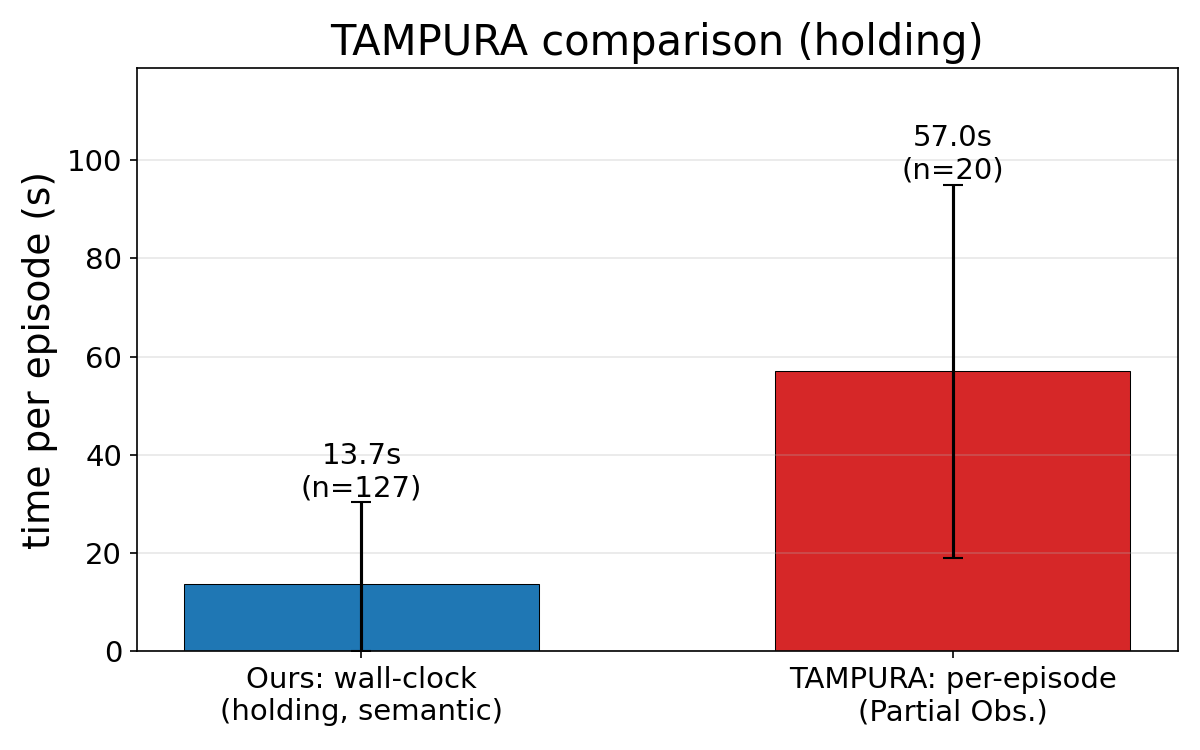
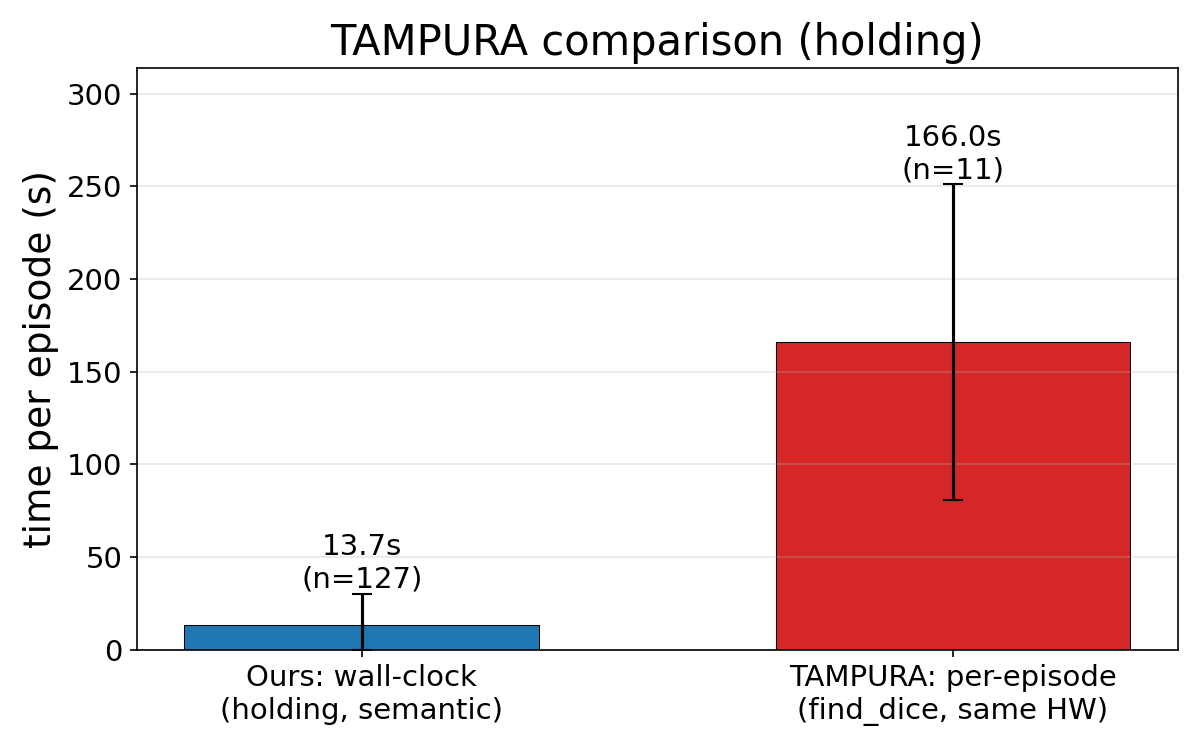
eval_plotter: TAMPURA fig -> local same-HW per-episode (ours 13.7 vs find_dice 166 s, success-only); regen thesis figure (#213)

diff --git a/eval_plotter.py b/eval_plotter.py
@@ -1083,38 +1083,39 @@ def plot_tampura_wallclock_comparison(
     title: str,
     out_path: Path,
 ) -> Optional[Path]:
-    """Bar chart: our holding-task per-episode wall-clock vs TAMPURA's
-    Partial Observability per-episode time (57 ± 38 from
-    arXiv:2403.10454 Table II).
+    """Bar chart: our holding-task per-episode wall-clock vs real TAMPURA
+    find_dice re-run on the SAME hardware (Ryzen 7 PRO 7730U).
 
-    Audit #177 (was #73 TIER C plot 9).  holding is the closest
-    analogue to TAMPURA's hidden-object Find Die task (find a hidden
-    object, pick it up); find-and-tray-stack is strictly harder and was
-    the wrong comparison.  TAMPURA's Table II time INCLUDES executing the
-    selected controllers in simulation, so it is a per-episode figure,
-    not planner time alone; the comparable quantity is therefore our
-    per-episode wall-clock (full episode incl. PyBullet + replanning).
-    The planning sub-component is intentionally NOT plotted.  Two bars,
-    semantic variant only: our wall-clock vs TAMPURA, both mean ± std;
-    the lower whisker is clipped at 0 because our times are right-skewed
-    (mean > median; median reported in the caption).  Reliability runs
-    the other way (ours ~42 %, TAMPURA >= 63 %); see THESIS_NOTES §21 for
-    the architectural framing.
+    Audit #213 (per-step correction to #177/#190).  TAMPURA's published
+    Table II number (57 ± 38 s) is a PER-STEP time including simulated
+    controller execution (arXiv:2403.10454 v2 PDF p.15 caption), NOT
+    per-episode -- so it is NOT plotted here (mixing per-step with
+    per-episode bars is the error this corrects).  Instead this is a clean
+    per-episode comparison on the same machine: our holding-semantic
+    wall-clock (success-only) vs TAMPURA's local find_dice loop time
+    (success-only; runs/sweep_2026-05-26.json).  holding is the find_dice
+    analogue (find a hidden object, pick it up).  Two bars, both mean ± std,
+    success-only; the lower whisker is clipped at 0 because our times are
+    right-skewed (mean > median; median in the caption).  Reliability runs
+    the other way (ours 42 %, TAMPURA local 55 %); the per-step
+    reconciliation (ours ~5.9 s/solve vs 57 s/step) is in the prose; see
+    THESIS_NOTES §21.
     """
-    # TAMPURA Partial Observability — arXiv:2403.10454 Table II
-    # (per-episode time incl. simulated controller execution, mean ± std,
-    # 20 trials).  Success >= 63 % is inferred from the 0.63 ± 0.30
-    # discounted return (Table I, gamma=0.98, binary terminal reward).
-    # Hardcoded; update if the paper revises.
-    TAMPURA_MEAN = 57.0
-    TAMPURA_STD = 38.0
-    TAMPURA_N = 20
+    # TAMPURA find_dice re-run on THIS thesis's hardware (Ryzen 7 PRO
+    # 7730U; runs/sweep_2026-05-26.json, n=20).  Per-episode loop time
+    # (planning + PyBullet execution), SUCCESS-ONLY (n=11) to match our
+    # success-only wall-clock.  Local success 55 % (11/20) reproduces the
+    # paper's inferred >= 63 % within N=20 noise.  The paper's published
+    # 57 ± 38 s is PER-STEP incl. execution (arXiv v2 PDF p.15) -- not
+    # comparable to a per-episode bar, so NOT plotted (audit #213).
+    TAMPURA_MEAN = 166.0
+    TAMPURA_STD = 85.0
+    TAMPURA_N = 11
 
-    # Audit #177 — holding is the find_dice analogue (find a hidden
-    # object, pick it up); find-and-tray-stack was the wrong, harder
-    # task.  TAMPURA's Table II time includes simulated controller
-    # execution (per-episode), so our wall-clock is the comparable span;
-    # collect it for the semantic variant, success-only.
+    # Audit #177/#213 — holding is the find_dice analogue (find a hidden
+    # object, pick it up).  Compare per-episode on the same hardware:
+    # collect our holding-semantic wall-clock, success-only, to match
+    # TAMPURA's success-only per-episode loop time above.
     wall: List[float] = []
     n_cells = 0
     n_success = 0
@@ -1147,7 +1148,7 @@ def plot_tampura_wallclock_comparison(
     bars = [
         ("Ours: wall-clock\n(holding, semantic)",
          wm, min(ws, wm), ws, len(wall), "#1f77b4"),
-        ("TAMPURA: per-episode\n(Partial Obs.)",
+        ("TAMPURA: per-episode\n(find_dice, same HW)",
          TAMPURA_MEAN, min(TAMPURA_STD, TAMPURA_MEAN), TAMPURA_STD,
          TAMPURA_N, "#d62728"),
     ]
@@ -1158,7 +1159,7 @@ def plot_tampura_wallclock_comparison(
             print(f"  {lab.replace(chr(10), ' ')}: "
                   f"{c:.1f} (-{lo:.1f}/+{hi:.1f}) n={n}")
         print(f"  success: ours {succ_pct:.0f}% (n={n_cells}); "
-              f"TAMPURA >= 63% (Table I)")
+              f"TAMPURA local 55% (n=20)")
         return None
 
     fig, ax = plt.subplots(figsize=(8, 5))
